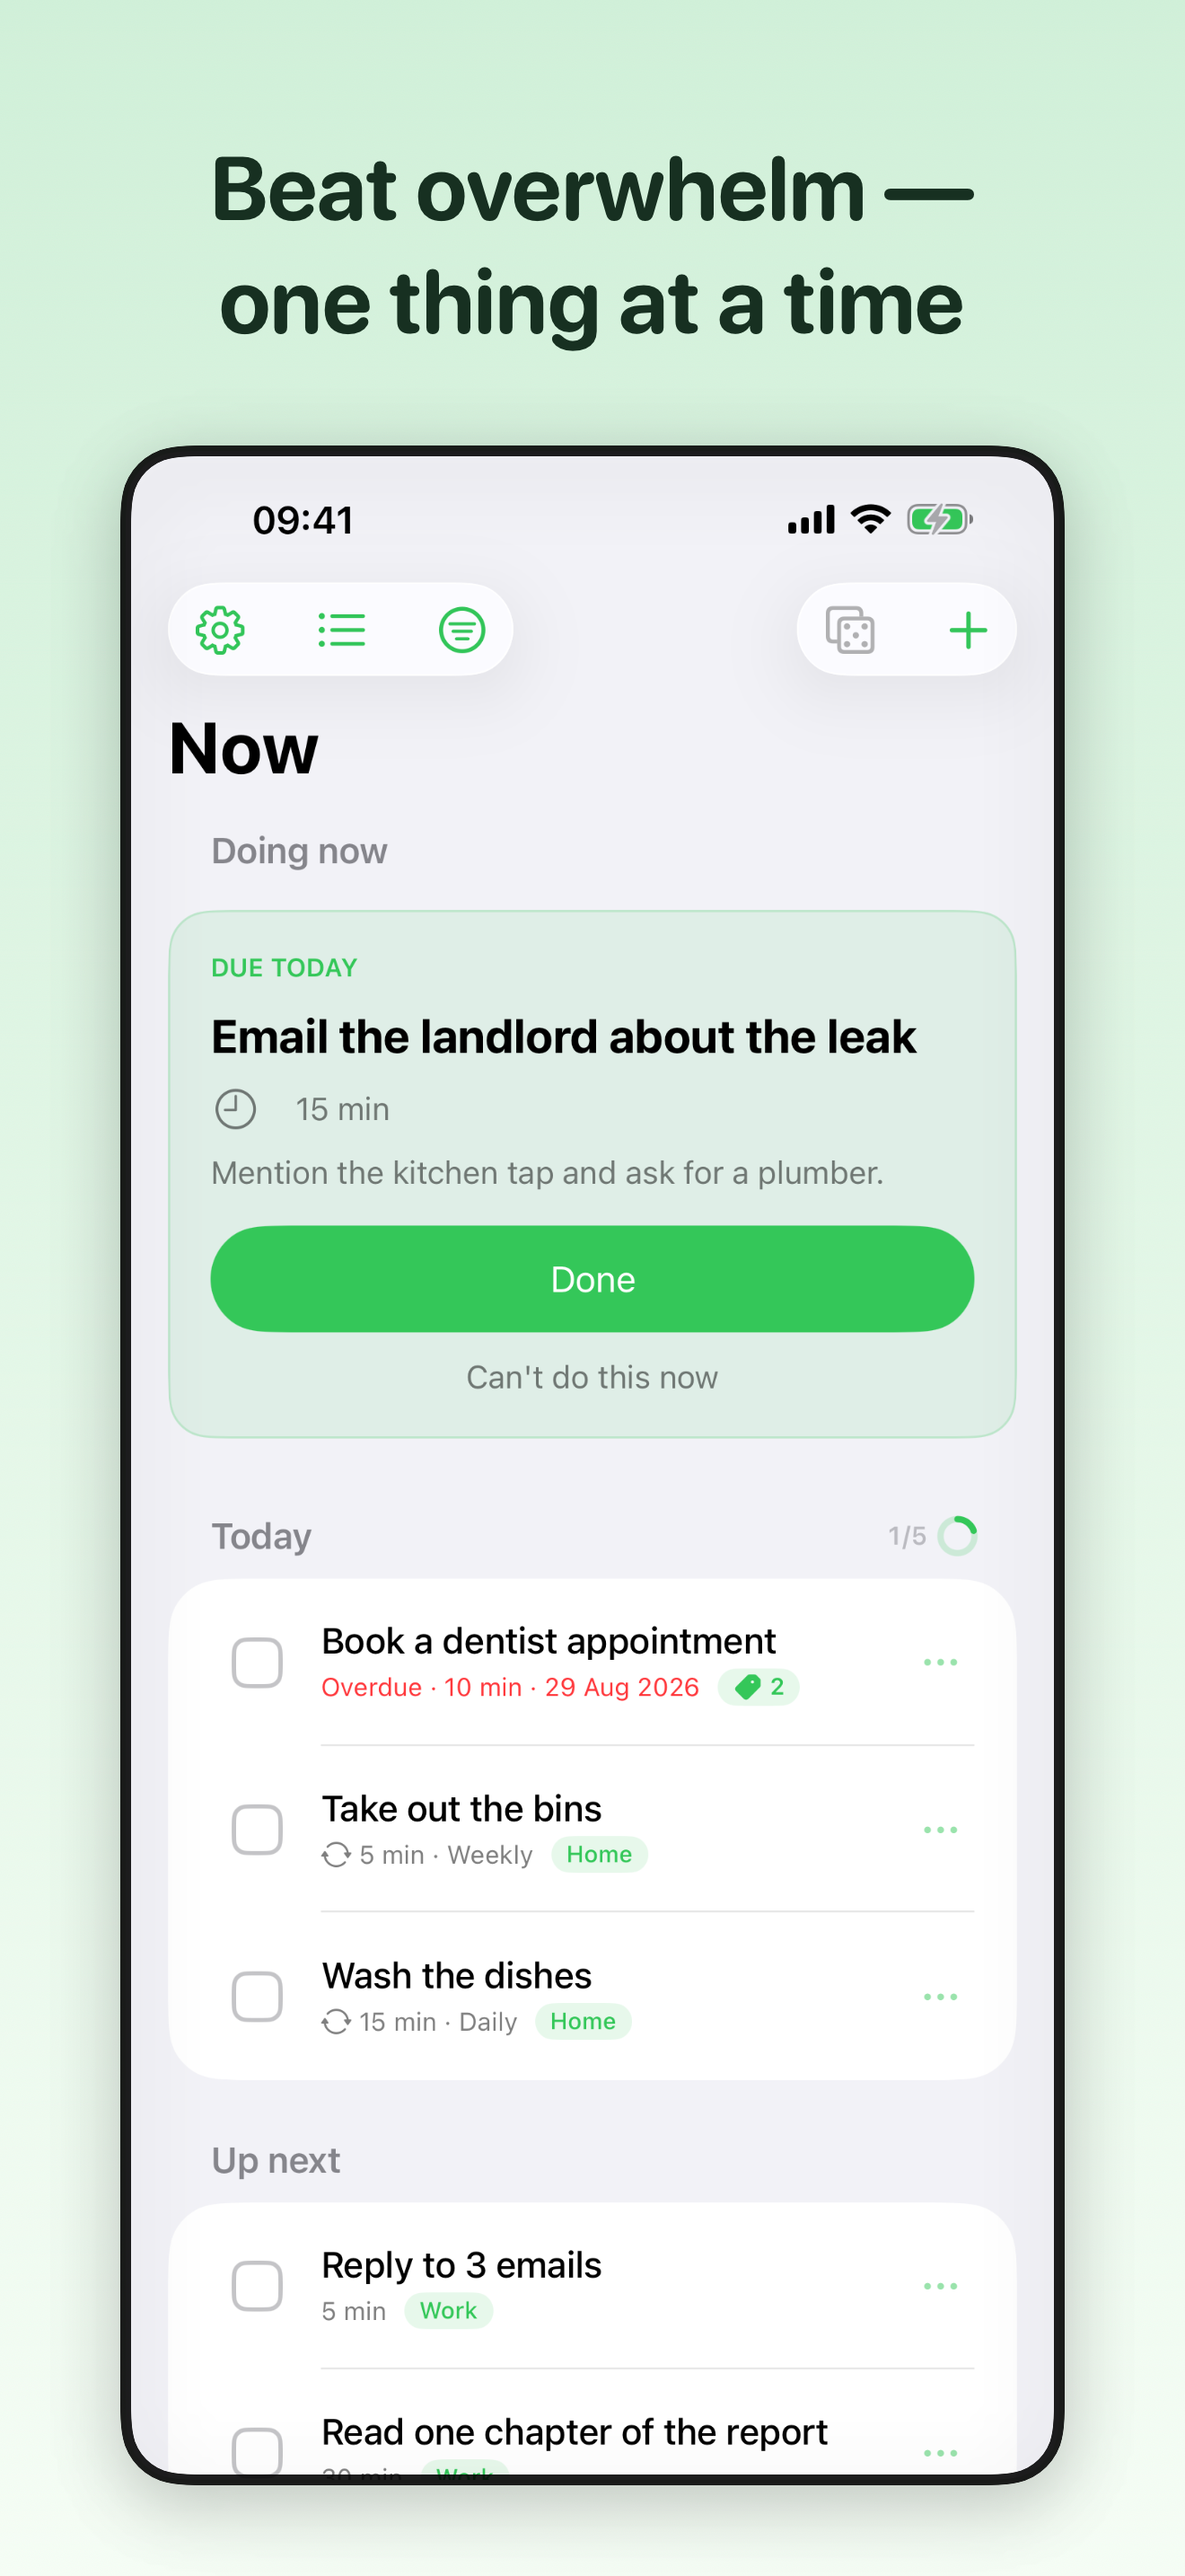
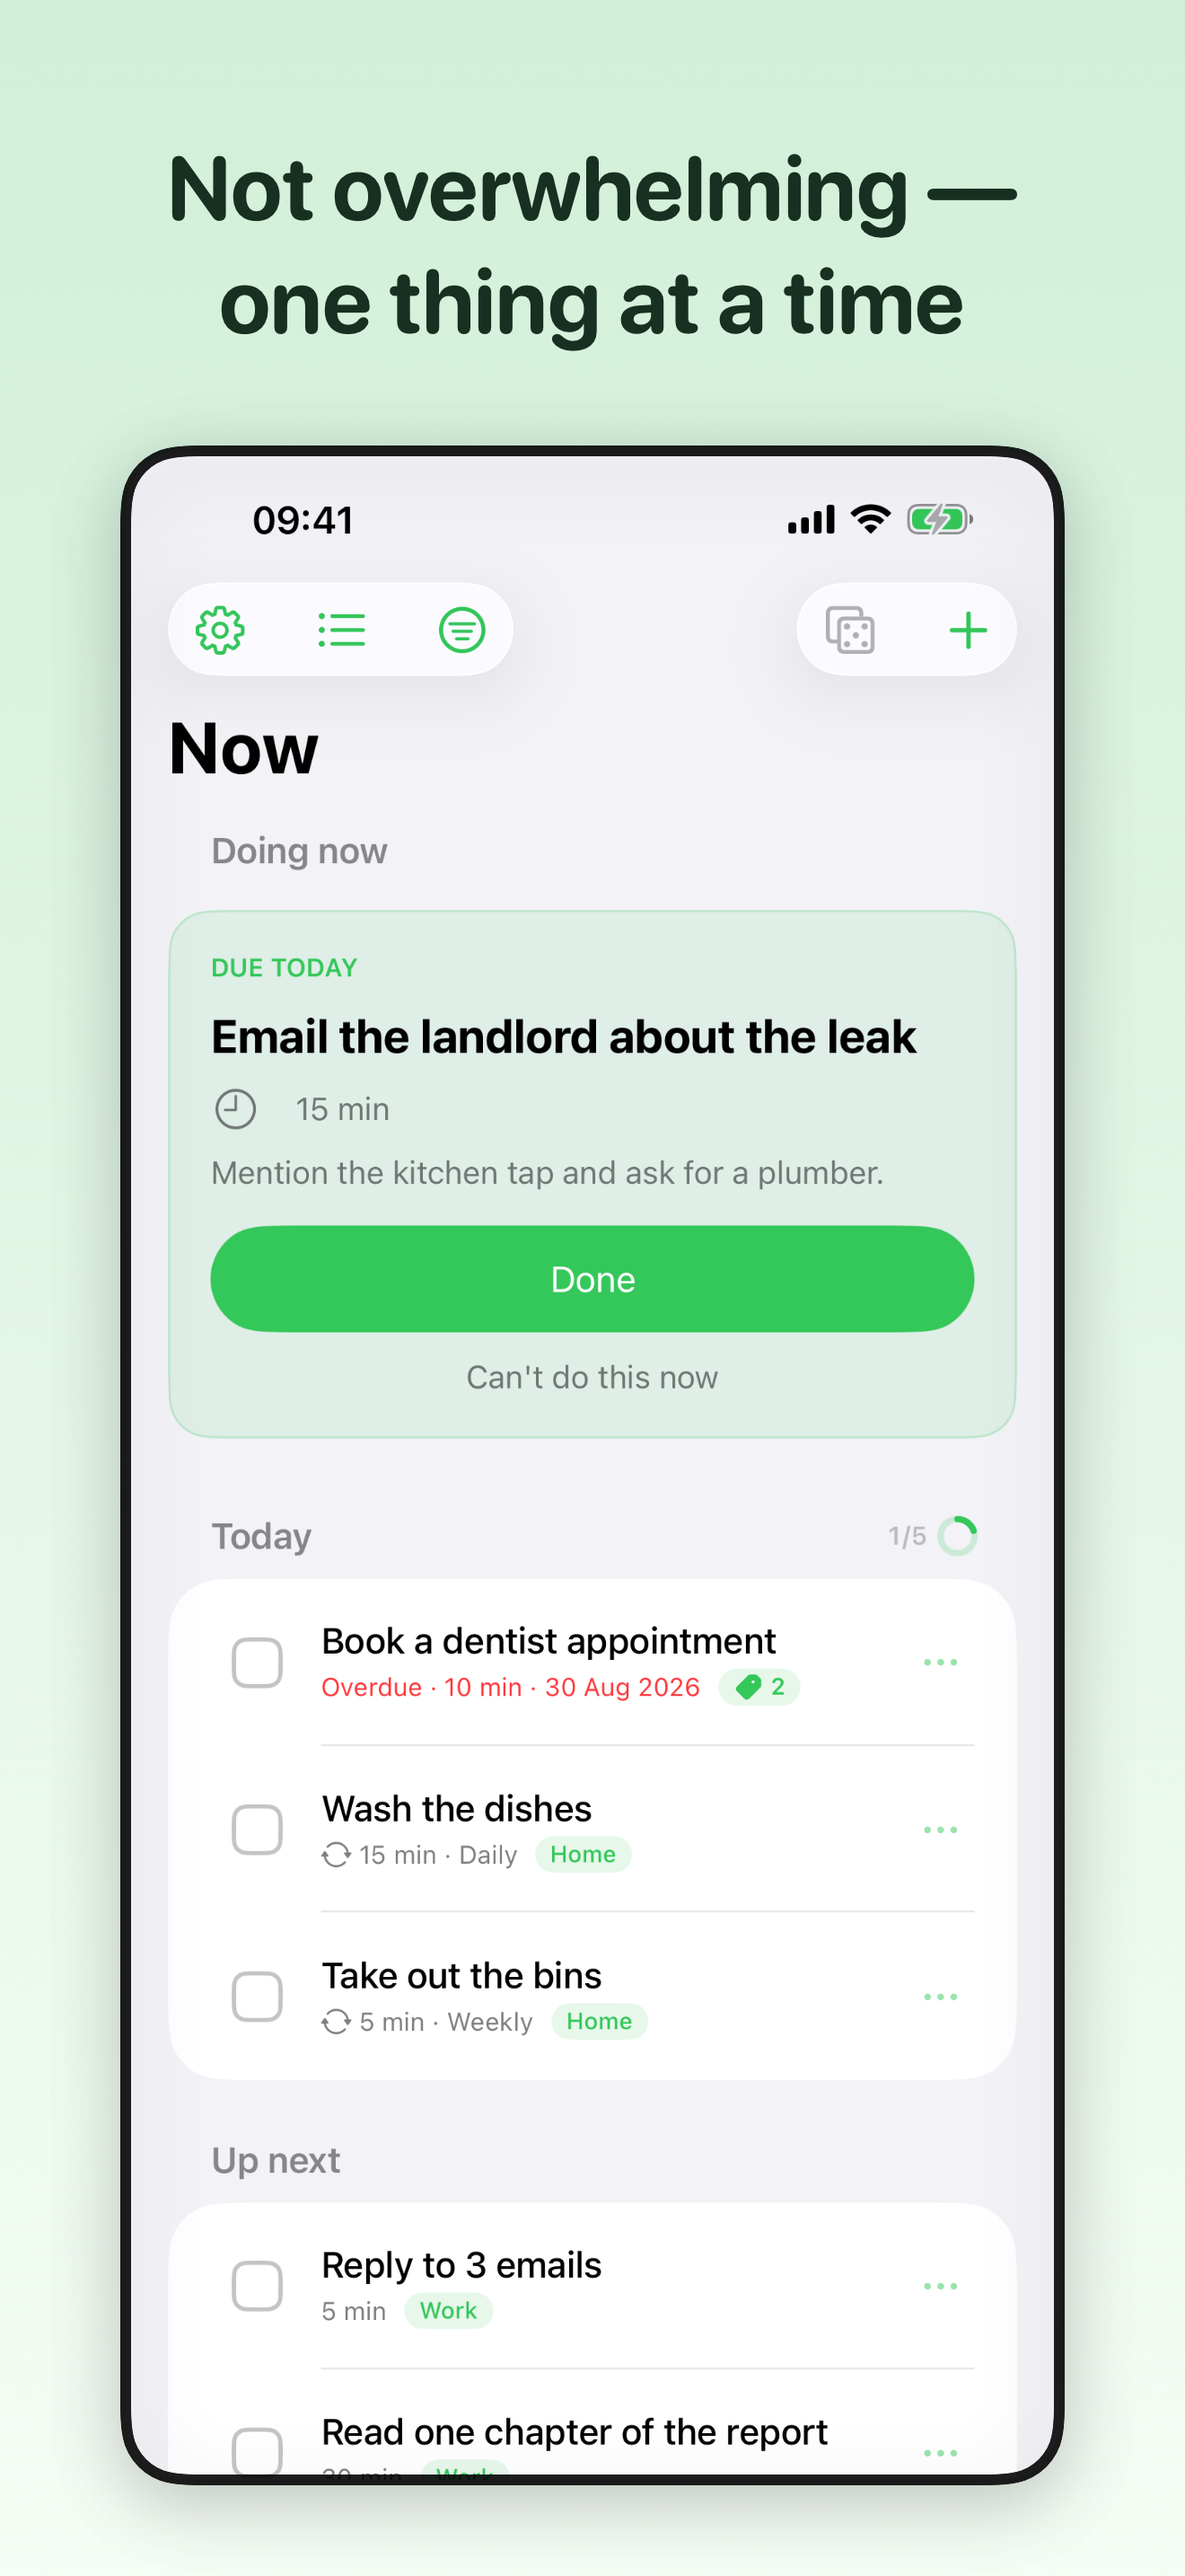
update marketing

Changed region(s): [[0.2795, 0.6827, 0.528, 0.8068], [0.1242, 0.0621, 0.7765, 0.0931]]

diff --git a/ActuallyDoItUITests/ActuallyDoItUITests.swift b/ActuallyDoItUITests/ActuallyDoItUITests.swift
@@ -73,7 +73,7 @@ final class ScreenshotTests: XCTestCase {
         // 01 — Doing-now hero (top of the Now screen).
         XCTAssertTrue(app.staticTexts["Doing now"].waitForExistence(timeout: 15))
         settle()
-        attach(framedAppShot(caption: "Beat overwhelm —\none thing at a time"), "01-focus.png")
+        attach(framedAppShot(caption: "Not overwhelming —\none thing at a time"), "01-focus.png")
 
         // 04 — the day's board: release the current focus so the "Doing now" hero gives way to a
         // clean Today section (with its progress ring) and the suggested next tasks.
@@ -99,7 +99,7 @@ final class ScreenshotTests: XCTestCase {
 
         // 03 — the nudge payoff: a composed lock screen using the app's real reminder copy. No app
         // grab is needed; the whole "screen" is rendered in SwiftUI.
-        attach(renderMarketing(caption: "It nudges until\nyou actually did it") {
+        attach(renderMarketing(caption: "It nudges until\nyou actually do it") {
             PhoneScreen { LockScreenMock() }
         }, "03-lockscreen.png")
     }
